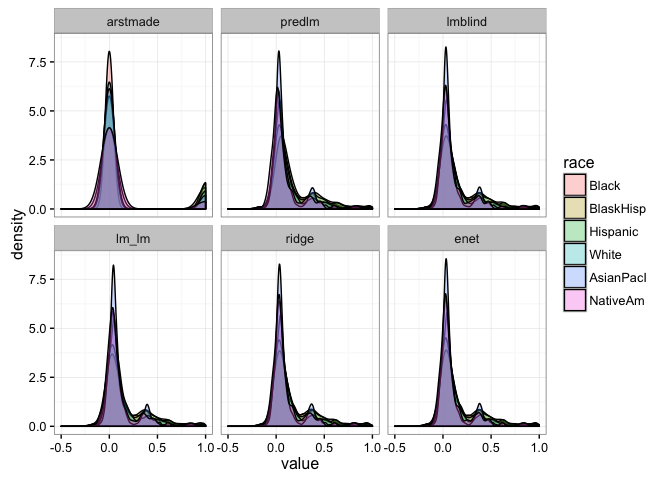
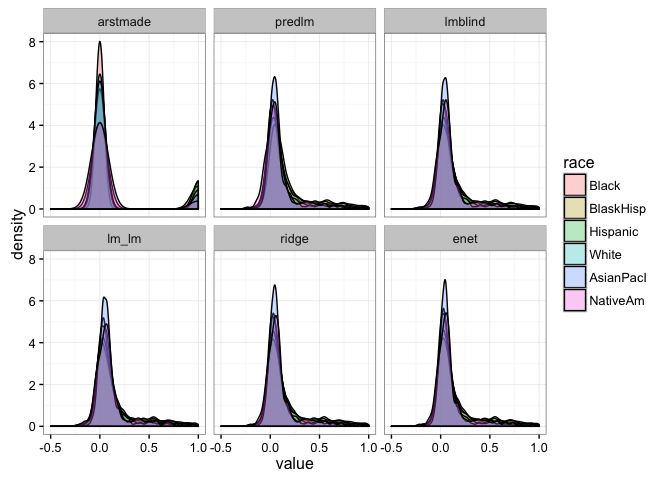
More careful data cleaning

diff --git a/sf.md b/sf.md
@@ -18,42 +18,93 @@ prot <- c("race", "sex")
 t(head(data))[,1:3]
 ```
 
-    ##          1            2            3           
-    ## pct      "67"         "7"          "84"        
-    ## ser_num  "15"         "26"         "52"        
-    ## timestop "2330"       "1530"       "2100"      
-    ## city     "Brooklyn"   "Manhattan"  "Brooklyn"  
-    ## sex      "Male"       "Male"       "Male"      
-    ## race     "Black"      "Black"      "Black"     
-    ## age      "18"         "31"         "16"        
-    ## height   "67"         "67"         "68"        
-    ## weight   "150"        "160"        "160"       
-    ## haircolr "1"          "1"          "1"         
-    ## eyecolor "2"          "2"          "2"         
-    ## build    "medium"     "medium"     "thin"      
-    ## frisked  "1"          "1"          "1"         
-    ## searched "0"          "1"          "0"         
-    ## contrabn "0"          "0"          "0"         
-    ## arstmade "-0.1515108" " 0.8484892" "-0.1515108"
-    ## sumissue "0"          "0"          "0"         
-    ## detailcm "20"         "23"         "45"        
-    ## perobs   "1"          "2"          "1"         
-    ## perstop  " 5"         " 5"         "10"        
-    ## inout    "0"          "1"          "1"         
-    ## trhsloc  "0"          "2"          "0"         
-    ## addrpct  "67"         " 7"         "84"        
-    ## sector   " 7"         " 2"         " 6"        
-    ## xcoord   "1000633"    " 987521"    " 988579"   
-    ## ycoord   "176542"     "201066"     "191174"    
-    ## typeofid "2"          "1"          "1"         
-    ## othpers  "1"          "0"          "1"         
-    ## explnstp "1"          "1"          "1"         
-    ## offunif  "0"          "0"          "0"         
-    ## offverb  "0"          "1"          "1"         
-    ## officrid "0"          "0"          "0"         
-    ## offshld  "1"          "1"          "1"         
-    ## radio    "0"          "0"          "0"         
-    ## recstat  "1"          "1"          "0"
+    ##            1            2            3           
+    ## pct        "67"         "7"          "84"        
+    ## datestop   "1012014"    "1032014"    "1042014"   
+    ## timestop   "2330"       "1530"       "2100"      
+    ## city       "Brooklyn"   "Manhattan"  "Brooklyn"  
+    ## sex        "Male"       "Male"       "Male"      
+    ## race       "Black"      "Black"      "Black"     
+    ## age        "18"         "31"         "16"        
+    ## height     "67"         "67"         "68"        
+    ## weight     "150"        "160"        "160"       
+    ## haircolr   "black"      "black"      "black"     
+    ## eyecolor   "2"          "2"          "2"         
+    ## build      "medium"     "medium"     "thin"      
+    ## frisked    "1"          "1"          "1"         
+    ## searched   "0"          "1"          "0"         
+    ## contrabn   "0"          "0"          "0"         
+    ## pistol     "0"          "0"          "0"         
+    ## knifcuti   "0"          "0"          "0"         
+    ## arstmade   "-0.1519095" " 0.8480905" "-0.1519095"
+    ## sumissue   "0"          "0"          "0"         
+    ## detailcm   "20"         "23"         "45"        
+    ## perobs     "1"          "2"          "1"         
+    ## perstop    " 5"         " 5"         "10"        
+    ## pf_hands   "0"          "1"          "0"         
+    ## pf_wall    "0"          "0"          "0"         
+    ## pf_grnd    "0"          "0"          "0"         
+    ## pf_drwep   "0"          "0"          "0"         
+    ## pf_ptwep   "0"          "0"          "0"         
+    ## pf_hcuff   "0"          "0"          "0"         
+    ## cs_objcs   "0"          "0"          "0"         
+    ## cs_descr   "0"          "0"          "0"         
+    ## cs_casng   "0"          "1"          "0"         
+    ## cs_lkout   "0"          "0"          "0"         
+    ## cs_cloth   "0"          "0"          "0"         
+    ## cs_drgtr   "0"          "0"          "0"         
+    ## cs_furtv   "0"          "0"          "0"         
+    ## cs_vcrim   "0"          "0"          "0"         
+    ## cs_bulge   "0"          "0"          "0"         
+    ## cs_other   "1"          "0"          "1"         
+    ## rf_vcrim   "0"          "0"          "0"         
+    ## rf_othsw   "0"          "1"          "0"         
+    ## rf_attir   "0"          "0"          "1"         
+    ## rf_vcact   "0"          "0"          "0"         
+    ## rf_rfcmp   "0"          "0"          "0"         
+    ## rf_verbl   "0"          "0"          "0"         
+    ## rf_knowl   "1"          "0"          "0"         
+    ## rf_furt    "0"          "0"          "1"         
+    ## rf_bulg    "0"          "0"          "0"         
+    ## sb_hdobj   "0"          "0"          "0"         
+    ## sb_outln   "0"          "0"          "0"         
+    ## sb_admis   "0"          "0"          "0"         
+    ## sb_other   "0"          "1"          "0"         
+    ## ac_proxm   "0"          "0"          "0"         
+    ## ac_evasv   "0"          "0"          "1"         
+    ## ac_assoc   "0"          "0"          "0"         
+    ## ac_cgdir   "0"          "0"          "0"         
+    ## ac_incid   "0"          "0"          "0"         
+    ## ac_time    "0"          "1"          "0"         
+    ## ac_stsnd   "0"          "0"          "0"         
+    ## ac_rept    "0"          "0"          "1"         
+    ## ac_inves   "0"          "0"          "0"         
+    ## ac_other   "0"          "0"          "0"         
+    ## inout      "0"          "1"          "1"         
+    ## trhsloc    "0"          "2"          "0"         
+    ## sector     "7"          "2"          "6"         
+    ## xcoord     "1000633"    " 987521"    " 988579"   
+    ## ycoord     "176542"     "201066"     "191174"    
+    ## othpers    "1"          "0"          "1"         
+    ## explnstp   "1"          "1"          "1"         
+    ## offunif    "0"          "0"          "0"         
+    ## radio      "0"          "0"          "0"         
+    ## othrweapon "FALSE"      "FALSE"      "FALSE"     
+    ## pf_othr    "FALSE"      "FALSE"      "FALSE"     
+    ## perobs5    "FALSE"      "FALSE"      "FALSE"     
+    ## perstop10  "FALSE"      "FALSE"      " TRUE"
+
+``` r
+print(reasoncols)
+```
+
+    ##  [1] "pf_hands" "pf_wall"  "pf_grnd"  "pf_drwep" "pf_ptwep" "pf_hcuff"
+    ##  [7] "cs_objcs" "cs_descr" "cs_casng" "cs_lkout" "cs_cloth" "cs_drgtr"
+    ## [13] "cs_furtv" "cs_vcrim" "cs_bulge" "cs_other" "rf_vcrim" "rf_othsw"
+    ## [19] "rf_attir" "rf_vcact" "rf_rfcmp" "rf_verbl" "rf_knowl" "rf_furt" 
+    ## [25] "rf_bulg"  "sb_hdobj" "sb_outln" "sb_admis" "sb_other" "ac_proxm"
+    ## [31] "ac_evasv" "ac_assoc" "ac_cgdir" "ac_incid" "ac_time"  "ac_stsnd"
+    ## [37] "ac_rept"  "ac_inves" "ac_other" "pf_othr"
 
 Imbalances in the data
 ----------------------
@@ -67,12 +118,12 @@ data %>% group_by(race) %>% summarise(count = n(), arstmade = meanarst + mean(ar
     ## # A tibble: 6 × 3
     ##        race count   arstmade
     ##      <fctr> <int>      <dbl>
-    ## 1     Black 22690 0.14354341
-    ## 2 BlaskHisp  2583 0.20867209
-    ## 3  Hispanic  8994 0.18412275
-    ## 4     White  4952 0.12338449
-    ## 5 AsianPacI  2136 0.10065543
-    ## 6  NativeAm   180 0.08333333
+    ## 1     Black 22495 0.14398755
+    ## 2 BlaskHisp  2565 0.20857700
+    ## 3  Hispanic  8928 0.18458781
+    ## 4     White  4900 0.12367347
+    ## 5 AsianPacI  2122 0.10084826
+    ## 6  NativeAm   179 0.08379888
 
 ### Linear regression
 
@@ -121,22 +172,22 @@ output %>% group_by(race) %>% summarise_if(is.numeric, .funs = funs("mean"))
 ```
 
     ## # A tibble: 6 × 7
-    ##        race   arstmade     predlm   lmblind      lm_lm      ridge
-    ##      <fctr>      <dbl>      <dbl>     <dbl>      <dbl>      <dbl>
-    ## 1     Black 0.14354341 0.14354341 0.1467821 0.14841448 0.14845422
-    ## 2 BlaskHisp 0.20867209 0.20867209 0.1886599 0.17958017 0.18567063
-    ## 3  Hispanic 0.18412275 0.18412275 0.1796708 0.17293324 0.17636902
-    ## 4     White 0.12338449 0.12338449 0.1253887 0.13238283 0.12505270
-    ## 5 AsianPacI 0.10065543 0.10065543 0.1037288 0.10918656 0.10281529
-    ## 6  NativeAm 0.08333333 0.08333333 0.0930949 0.09708883 0.09455743
+    ##        race   arstmade     predlm    lmblind     lm_lm     ridge
+    ##      <fctr>      <dbl>      <dbl>      <dbl>     <dbl>     <dbl>
+    ## 1     Black 0.14398755 0.14398755 0.14728842 0.1490948 0.1490071
+    ## 2 BlaskHisp 0.20857700 0.20857700 0.18698521 0.1779070 0.1844254
+    ## 3  Hispanic 0.18458781 0.18458781 0.18091879 0.1739136 0.1780497
+    ## 4     White 0.12367347 0.12367347 0.12586077 0.1325097 0.1249142
+    ## 5 AsianPacI 0.10084826 0.10084826 0.10110988 0.1067308 0.1001353
+    ## 6  NativeAm 0.08379888 0.08379888 0.09840219 0.1022352 0.0985945
     ##         enet
     ##        <dbl>
-    ## 1 0.14859789
-    ## 2 0.18609810
-    ## 3 0.17671427
-    ## 4 0.12368634
-    ## 5 0.10323532
-    ## 6 0.09423189
+    ## 1 0.14950524
+    ## 2 0.18448862
+    ## 3 0.17771876
+    ## 4 0.12317308
+    ## 5 0.09933838
+    ## 6 0.09767149
 
 Distribution plots.
 
@@ -151,7 +202,7 @@ ggplot(pd, aes(value, fill = sex)) + geom_density(alpha = .3) +
   facet_wrap(~variable) + xlim(-.5, 1) + theme_bw()
 ```
 
-    ## Warning: Removed 1923 rows containing non-finite values (stat_density).
+    ## Warning: Removed 3818 rows containing non-finite values (stat_density).
 
 ![](sf_files/figure-markdown_github/unnamed-chunk-8-1.png)
 
@@ -160,7 +211,7 @@ ggplot(pd, aes(value, fill = race)) + geom_density(alpha = .3) +
   facet_wrap(~variable) + xlim(-.5, 1) + theme_bw()
 ```
 
-    ## Warning: Removed 1923 rows containing non-finite values (stat_density).
+    ## Warning: Removed 3818 rows containing non-finite values (stat_density).
 
 ![](sf_files/figure-markdown_github/unnamed-chunk-8-2.png)
 
@@ -172,7 +223,7 @@ outputMSE$const <- output$arstmade^2
 outputMSE %>% summarise_all("mean")
 ```
 
-    ##       predlm   lmblind      lm_lm      ridge       enet     const
-    ## 1 0.07490494 0.0750383 0.07523581 0.07514535 0.07510581 0.1515108
+    ##       predlm   lmblind      lm_lm     ridge       enet     const
+    ## 1 0.06420802 0.0642947 0.06449954 0.0644255 0.06437897 0.1519095
 
 “NYC Stop and Frisk Data.” 2014. NYCLU. <http://www.nyclu.org/content/stop-and-frisk-data>.
